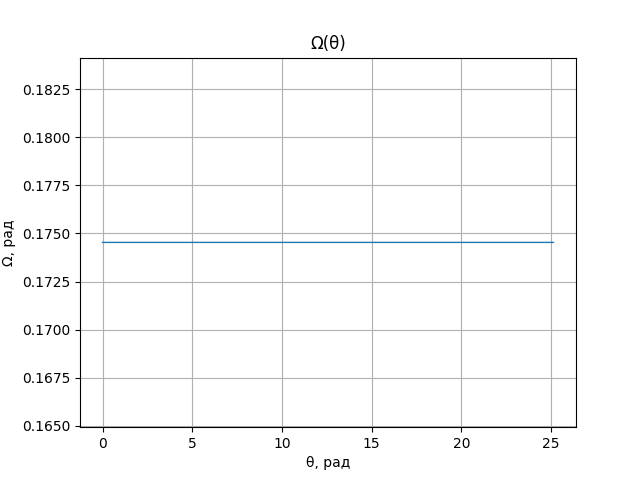
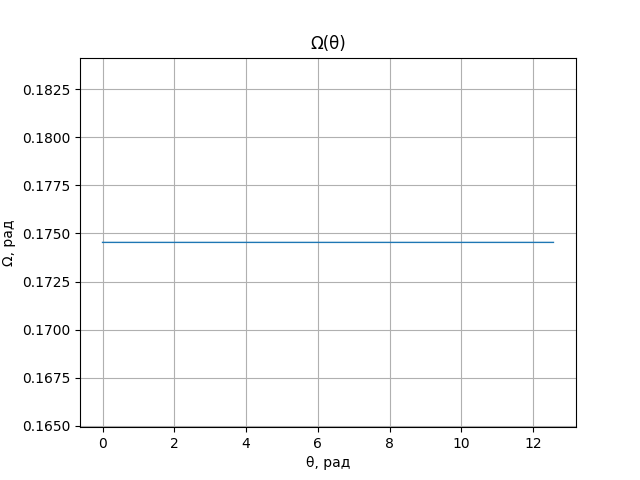
update

diff --git a/КР/functions.py b/КР/functions.py
@@ -38,7 +38,87 @@ R_tau = lambda F, p: F * math.sqrt(398603 / p)
 
 geT_F = lambda r, S, T, theta, e, p: (398603 / r ** 2 + S * math.cos(theta) / e - T * (1 + r / p) * math.sin(
     theta) / e) ** -1
+
+
 # =====================================================================================================================
+
+# Рунге Кутты
+# ========================================
+def runge_p(r, S, T, e, p, theta, d_theta):
+    k1 = R_p(r=r, T=T, F=geT_F(r=r, S=S, T=T, theta=theta, e=e, p=p))
+    k2 = R_p(r=r, T=T, F=geT_F(r=r, S=S, T=T, theta=theta + 0.5 * d_theta, e=e, p=p + 0.5 * d_theta * k1))
+    k3 = R_p(r=r, T=T, F=geT_F(r=r, S=S, T=T, theta=theta + 0.5 * d_theta, e=e, p=p + 0.5 * d_theta * k2))
+    k4 = R_p(r=r, T=T, F=geT_F(r=r, S=S, T=T, theta=theta + d_theta, e=e, p=p + d_theta * k3))
+    return d_theta / 6 * (k1 + 2 * k2 + 2 * k3 + k4)
+
+
+def runge_OMEGA(S, T, W, r, e, p, omega, i, theta, d_theta):
+    k1 = R_OMEGA(W=W, F=geT_F(r=r, S=S, T=T, theta=theta, e=e, p=p), r=r, p=p, u=theta + omega, i=i)
+
+    k2 = R_OMEGA(W=W, F=geT_F(r=r, S=S, T=T, theta=theta + 0.5 * d_theta, e=e, p=p), r=r, p=p,
+                 u=theta + 0.5 * d_theta + omega, i=i)
+
+    k3 = R_OMEGA(W=W, F=geT_F(r=r, S=S, T=T, theta=theta + 0.5 * d_theta, e=e, p=p), r=r, p=p,
+                 u=theta + 0.5 * d_theta + omega, i=i)
+
+    k4 = R_OMEGA(W=W, F=geT_F(r=r, S=S, T=T, theta=theta + d_theta, e=e, p=p), r=r, p=p, u=theta + d_theta + omega, i=i)
+    return d_theta / 6 * (k1 + 2 * k2 + 2 * k3 + k4)
+
+
+def runge_i(S, T, W, r, e, p, omega, theta, d_theta):
+    k1 = R_i(W=W, F=geT_F(r=r, S=S, T=T, theta=theta, e=e, p=p), r=r, p=p, u=theta + omega)
+    k2 = R_i(W=W, F=geT_F(r=r, S=S, T=T, theta=theta + 0.5 * d_theta, e=e, p=p), r=r, p=p,
+             u=theta + 0.5 * d_theta + omega)
+    k3 = R_i(W=W, F=geT_F(r=r, S=S, T=T, theta=theta + 0.5 * d_theta, e=e, p=p), r=r, p=p,
+             u=theta + 0.5 * d_theta + omega)
+    k4 = R_i(W=W, F=geT_F(r=r, S=S, T=T, theta=theta + d_theta, e=e, p=p), r=r, p=p, u=theta + d_theta + omega)
+
+    return d_theta / 6 * (k1 + 2 * k2 + 2 * k3 + k4)
+
+
+def runge_omega(S, T, W, r, e, p, omega, theta, d_theta):
+    k1 = R_omega(F=geT_F(r=r, S=S, T=T, theta=theta, e=e, p=p), S=S, theta=theta, e=e, T=T, r=r, p=p, W=W, i=i,
+                 u=theta + omega)
+
+    k2 = R_omega(F=geT_F(r=r, S=S, T=T, theta=theta + 0.5 * d_theta, e=e, p=p), S=S, theta=theta + 0.5 * d_theta, e=e,
+                 T=T, r=r, p=p, W=W, i=i,
+                 u=theta + 0.5 * d_theta + omega + 0.5 * d_theta * k1)
+
+    k3 = R_omega(F=geT_F(r=r, S=S, T=T, theta=theta + 0.5 * d_theta, e=e, p=p), S=S, theta=theta + 0.5 * d_theta, e=e,
+                 T=T, r=r, p=p, W=W, i=i,
+                 u=theta + 0.5 * d_theta + omega + 0.5 * d_theta * k2)
+
+    k4 = R_omega(F=geT_F(r=r, S=S, T=T, theta=theta + d_theta, e=e, p=p), S=S, theta=theta + d_theta, e=e, T=T, r=r,
+                 p=p, W=W, i=i,
+                 u=theta + d_theta + omega + d_theta * k3)
+    return d_theta / 6 * (k1 + 2 * k2 + 2 * k3 + k4)
+
+
+def runge_e(S, theta, T, r, p, e, d_theta):
+    k1 = R_e(F=geT_F(r=r, S=S, T=T, theta=theta, e=e, p=p), S=S, theta=theta, T=T, r=r, p=p, e=e)
+
+    k2 = R_e(F=geT_F(r=r, S=S, T=T, theta=theta + 0.5 * d_theta, e=e + 0.5 * d_theta * k1, p=p), S=S,
+             theta=theta + 0.5 * d_theta, T=T, r=r, p=p, e=e + 0.5 * d_theta * k1)
+
+    k3 = R_e(F=geT_F(r=r, S=S, T=T, theta=theta + 0.5 * d_theta, e=e + 0.5 * d_theta * k2, p=p), S=S,
+             theta=theta + 0.5 * d_theta, T=T, r=r, p=p, e=e + 0.5 * d_theta * k2)
+
+    k4 = R_e(F=geT_F(r=r, S=S, T=T, theta=theta + d_theta, e=e + d_theta * k3, p=p), S=S,
+             theta=theta + d_theta, T=T, r=r, p=p, e=e + d_theta * k3)
+
+    return d_theta / 6 * (k1 + 2 * k2 + 2 * k3 + k4)
+
+
+def runge_tau(r, S, T, e, p, theta, d_theta):
+    k1 = R_tau(F=geT_F(r=r, S=S, T=T, theta=theta, e=e, p=p), p=p)
+    k2 = R_tau(F=geT_F(r=r, S=S, T=T, theta=theta + 0.5 * d_theta, e=e, p=p), p=p)
+    k3 = R_tau(F=geT_F(r=r, S=S, T=T, theta=theta + 0.5 * d_theta, e=e, p=p), p=p)
+    k4 = R_tau(F=geT_F(r=r, S=S, T=T, theta=theta + d_theta, e=e, p=p), p=p)
+    return d_theta / 6 * (k1 + 2 * k2 + 2 * k3 + k4)
+
+
+# ========================================
+
 
 # Вспомогательные функции
 # ========================================================
@@ -140,7 +220,7 @@ def find_H(Ra, theta, i, big_omega, omega, p, e, tau):
 def find_density(H):
     table = None
 
-    if 120 <= H <= 500:
+    if H <= 500:
         table = table1
 
     if 500 < H:

diff --git a/КР/main.py b/КР/main.py
@@ -5,7 +5,7 @@ import matplotlib.pyplot as plt
 
 sigma_x = get_sigma_x(Cxa=C_xa, Sa=Sa, m=m)
 
-revolutions = 2 * 4  # Количество оборотов
+revolutions = 2 * 2  # Количество оборотов
 theta_list = list(np.arange(0, revolutions * math.pi + d_theta, d_theta))
 r_list = []
 p_list = []
@@ -45,6 +45,9 @@ def iterative_loop():
     r1 = p1 = OMEGA1 = omega1 = i1 = e1 = tau1 = 0
 
     for theta in theta_list:
+        if theta_list.index(theta) % 1000 == 0:
+            print(theta)
+
         # Радиус
         # ==============================
         r = get_r(p=p, e=e, theta=theta)
@@ -53,6 +56,7 @@ def iterative_loop():
 
         H = find_H(Ra=r, theta=theta, i=i, big_omega=OMEGA, omega=omega, p=p, e=e, tau=tau)  # высота
         density = find_density(H=H)  # плотность
+        # density = -1  # плотность
         # density = find_density(H=r-6371)  # плотность
 
         H_list.append(H)
@@ -76,6 +80,7 @@ def iterative_loop():
         T = T2(sigma_x=sigma_x, density=density, V=V, Vt=Vt) * 1e3
         W = W2
 
+        # S = T = W = 0
         S_list.append(S)
         T_list.append(T)
         W_list.append(W)
@@ -92,6 +97,14 @@ def iterative_loop():
         omega1 = omega + R_omega(F=F, S=S, theta=theta, e=e, T=T, r=r, p=p, W=W, i=i, u=theta + omega) * d_theta
         e1 = e + R_e(F=F, S=S, theta=theta, T=T, r=r, p=p, e=e) * d_theta
         tau1 = tau + R_tau(F=F, p=p) * d_theta
+        #
+        # p1 = p + runge_p(r=r, S=S, T=T, e=e, p=p, theta=theta, d_theta=d_theta)
+        # OMEGA1 = OMEGA + runge_OMEGA(S=S, T=T, W=W, r=r, e=e, p=p, omega=omega, i=i, theta=theta, d_theta=d_theta)
+        # i1 = i + runge_i(S=S, T=T, W=W, r=r, e=e, p=p, omega=omega, theta=theta, d_theta=d_theta)
+        # omega1 = omega + runge_omega(S=S, T=T, W=W, r=r, e=e, p=p, omega=omega, theta=theta, d_theta=d_theta)
+        # e1 = e + runge_e(S=S, theta=theta, T=T, r=r, p=e, e=e, d_theta=d_theta)
+        # tau1 = tau + runge_tau(r=r, S=S, T=T, e=e, p=p, theta=theta, d_theta=d_theta)
+
         # ======================================================================================================
 
         # Занесение новых данных в контейнеры
@@ -109,9 +122,9 @@ def iterative_loop():
 
 def chart(x, y, title='', xlabel='', ylabel=''):
     plt.plot(x, y, linewidth=1)
-    plt.plot(len(y) * [math.pi], y, 'r')
-    plt.plot(len(y) * [2 * math.pi], y, 'r')
-    plt.plot(len(y) * [3 * math.pi], y, 'r')
+    # plt.plot(len(y) * [math.pi], y, 'r')
+    # plt.plot(len(y) * [2 * math.pi], y, 'r')
+    # plt.plot(len(y) * [3 * math.pi], y, 'r')
     if title == 'r(θ)':
         plt.plot(0, 0, marker='.', markersize=30, color='green', markerfacecolor='lightgreen')
         plt.plot(x[0], y[0], marker='.', markersize=20, color='blue', markerfacecolor='blue')

diff --git a/КР/data.py b/КР/data.py
@@ -16,5 +16,5 @@ C_xa = 3.5
 Fa = 125
 # ======================
 
-d_theta = 1e-2
+d_theta = 1e-4
 Earth_radius = 6371
